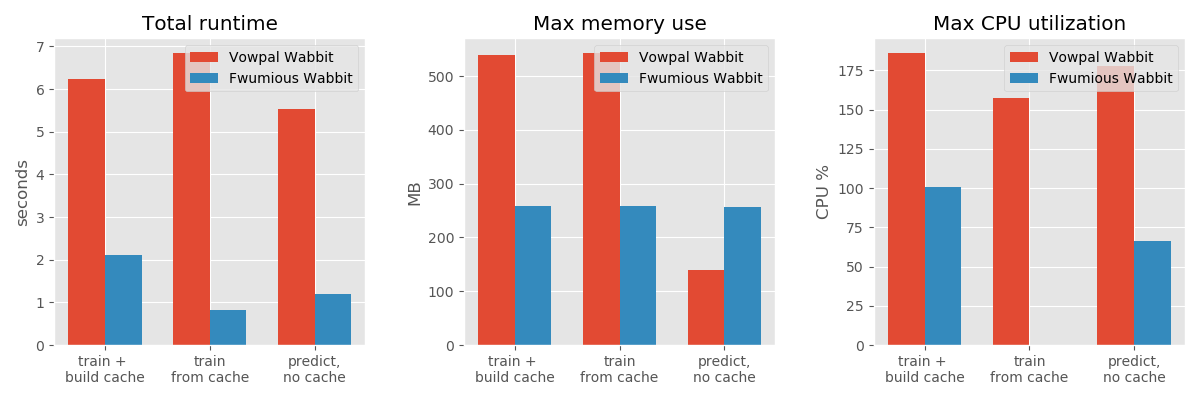
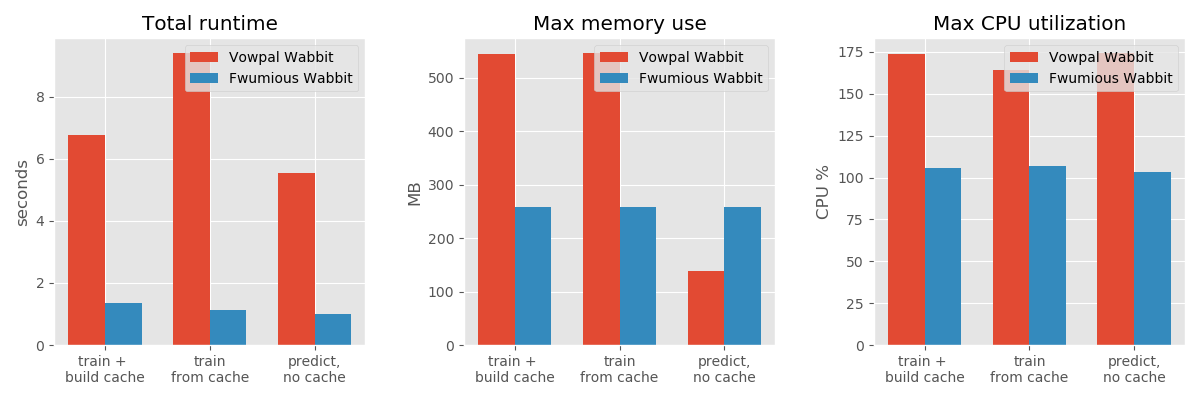
Some fixes, new benchmark

diff --git a/benchmark/benchmark.py b/benchmark/benchmark.py
@@ -46,25 +46,27 @@ def fw_clean_cache():
     rm_quietly("work_dir/easy.vw.fwcache")
 
 
-def print_system_info(file = sys.stdout):
-    print("### CPU Info", file=file)
-    print( "```", file=file)
+def get_system_info():
+    l = []
+    l.append("### CPU Info")
+    l.append("```")
     # number of cores
-    print( "Physical cores:", psutil.cpu_count(logical=False), file=file)
-    print( "Total cores:", psutil.cpu_count(logical=True), file=file)
+    l.append("Physical cores: %i" % psutil.cpu_count(logical=False))
+    l.append("Total cores: %i" % psutil.cpu_count(logical=True))
     # CPU frequencies
     cpufreq = psutil.cpu_freq()
-    print( f"Current Frequency: {cpufreq.current:.2f}Mhz", file=file)
-    print( "```", file=file)
+    l.append(f"Current Frequency: {cpufreq.current:.2f}Mhz")
+    l.append("```")
 
-    print( "### System Information", file=file)
+    l.append("### System Information")
     uname = platform.uname()
-    print( "```", file=file)
-    print( f"System: {uname.system}", file=file)
-    print( f"Version: {uname.version}", file=file)
-    print( f"Machine: {uname.machine}", file=file)
-    print( f"Processor: {uname.processor}", file=file)
-    print( "```", file=file)
+    l.append("```")
+    l.append(f"System: {uname.system}")
+    l.append(f"Version: {uname.version}")
+    l.append(f"Machine: {uname.machine}")
+    l.append(f"Processor: {uname.processor}")
+    l.append("```")
+    return "\n".join(l)
 
 
 def gzip_file(f):
@@ -193,12 +195,14 @@ if __name__ == "__main__":
     use_plots = sys.argv[3] == "True"
 
     action = sys.argv[2]
+    
+    
+    BENCHMARK_MD_FILEPATH = "work_dir/BENCHMARK.new.md"
 
-    with open("work_dir/README.md", "w") as readme:
-        readme.write("")  # clear file
-#        sys.stdout = readme
+    with open(BENCHMARK_MD_FILEPATH, "w") as readme:
         def rprint(*args, **kwargs):
             print(*args, file=readme, **kwargs)
+        rprint("") # Clear file
 
         params = " -l 0.1 -b 25 --adaptive --sgd --loss_function logistic --link logistic --power_t 0.0 --l2 0.0 --hash all "
         interactions = " --interactions AB --keep A --keep B --keep C --keep D --keep E --keep F --keep G --keep H --keep I --keep J --keep K --keep L"
@@ -219,7 +223,8 @@ if __name__ == "__main__":
         if action in ["generate", "all"]:
             eprint(f"Generating test data, training examples: {train_examples}, test examples: {test_examples}")
             generate.generate(Path("work_dir"), train_examples, test_examples, feature_variety)
-            gzip_file("work_dir/train.vw")
+            # Currently we don't benchmark over gzip files as it's just one more layer of complication
+            #gzip_file("work_dir/train.vw")
 
         times = 3
         actions = []
@@ -237,8 +242,8 @@ if __name__ == "__main__":
 
         if action in ["train", "predict", "train+predict", "all"]:
             rprint("""## Scenarios
-            1. train a new model from a gzipped dataset, generating a gzipped cache file for future runs, and an output model file - *this is a typical scenario in our AutoML system - we start by generating the cache file for the next runs.*
-            1. train a new model over the dataset in the gzipped cache, and generate an output model - *this is also a typical scenario - we usually run many concurrent model evaluations as part of the model search*
+            1. train a new model from a dataset and an output model file - *typical scenario for one-off training on the dataset*
+            1. train a new model from a cached dataset, and generate an output model - *this is also a typical scenario - we usually run many concurrent model evaluations as part of the model search*
             1. use a generated model to make predictions over a dataset read from a text file, and print them to an output predictions file - *this is to illustrate potential serving performance, we don't usually predict from file input as our offline flows always apply online learning. note that when running as daemon we use half as much memory since gradients are not loaded - only model weights.*
             """)
 
@@ -449,10 +454,10 @@ if __name__ == "__main__":
         ## Latest run setup
         """)
 
-        print_system_info(readme)
+        rprint(get_system_info())
 
-        if os.path.isfile("work_dir/README.md"):
-            shutil.copyfile("work_dir/README.md", "../BENCHMARK.md")
+    if os.path.isfile(BENCHMARK_MD_FILEPATH):
+        shutil.copyfile(BENCHMARK_MD_FILEPATH, "../BENCHMARK.md")
 
-        if os.path.isfile("work_dir/benchmark_results.png"):
-            shutil.copyfile("work_dir/benchmark_results.png", "../benchmark_results.png")
+    if os.path.isfile("work_dir/benchmark_results.png"):
+        shutil.copyfile("work_dir/benchmark_results.png", "../benchmark_results.png")

diff --git a/BENCHMARK.md b/BENCHMARK.md
@@ -1,0 +1,87 @@
+
+## Scenarios
+            1. train a new model from a dataset and an output model file - *typical scenario for one-off training on the dataset*
+            1. train a new model from a cached dataset, and generate an output model - *this is also a typical scenario - we usually run many concurrent model evaluations as part of the model search*
+            1. use a generated model to make predictions over a dataset read from a text file, and print them to an output predictions file - *this is to illustrate potential serving performance, we don't usually predict from file input as our offline flows always apply online learning. note that when running as daemon we use half as much memory since gradients are not loaded - only model weights.*
+            
+## Model
+        We train a logistic regression model, applying online learning one example at a time (no batches), 
+        using '--adaptive' flag for adaptive learning rates (AdaGrad variant).
+        ### Results
+        here are the results for {times} runs for each scenario, taking mean values:
+![benchmark results](benchmark_results.png)
+Scenario|Runtime (seconds)|Memory (MB)|CPU %
+----|----:|----:|----:
+vw train, no cache|6.76 | 545 | 173.67
+fw train, no cache|1.35 | 258 | 105.83
+vw train, using cache|9.41 | 547 | 164.17
+fw train, using cache|1.14 | 258 | 107.00
+vw predict, no cache|5.56 | 139 | 174.40
+fw predict, no cache|1.00 | 257 | 103.40
+
+        ### Model equivalence
+        loss values for the test set:
+```
+Vowpal Wabbit predictions loss: 0.7804
+Fwumious Wabbit predictions loss: 0.7804
+```
+
+
+for more details on what makes Fwumious Wabbit so fast, see [here](https://github.com/outbrain/fwumious_wabbit/blob/benchmark/SPEED.md)
+### Dataset details")
+            we generate a synthetic dataset with 1,000,000 train records ('train.vw'), and 1,000,000 test records ('easy.vw').
+            the task is 'Eat-Rate prediction' - each record describes the observed result of a single feeding experiment.
+            each record is made of a type of animal, a type of food (in Vowpal Wabbit jargon these are our namespaces A and B respectively), and a label indicating whether the animal ate the food.
+            the underlying model is simple - animals are either herbivores or carnivores,
+            and food is either plant based or meat based.
+            herbivores always eat plants (and only plants), and carnivores always eat meat (and only meat).
+            we name animals conveniently using the pattern 'diet-id', for example 'Herbivore-1234' and 'Carnivore-5678'
+            and the food similarly as 'food_type-id' - for example 'Plant-678' and 'Meat-234' so the expected label for a record is always obvious.
+            there are 1,000 animal types, and 1,000 food types.
+            
+see for example the first 5 lines from the train dataset (after some pretty-printing):
+                label|animal|food
+                ----:|------|----
+                
+-1 |A Herbivore-65 |B Meat-120 |C C8117 |D D7364 |E E7737 |F F6219 |G G3439 |H H1537 |I I7993 |J J464 |K K6386 |L L7090
+1 |A Carnivore-272 |B Meat-184 |C C3748 |D D9685 |E E1674 |F F5200 |G G501 |H H365 |I I416 |J J8870 |K K150 |L L6245
+1 |A Carnivore-135 |B Meat-227 |C C7174 |D D8123 |E E9058 |F F3818 |G G5663 |H H3782 |I I3584 |J J7530 |K K4747 |L L352
+-1 |A Herbivore-47 |B Meat-644 |C C4856 |D D1980 |E E5450 |F F8205 |G G6915 |H H8318 |I I3110 |J J4970 |K K4655 |L L9626
+-1 |A Carnivore-603 |B Plant-218 |C C565 |D D7868 |E E3977 |F F6623 |G G6788 |H H2834 |I I6014 |J J8991 |K K6139 |L L1416
+
+
+### Feature engineering
+            if we train using separate 'animal type' and 'food type' features, the model won't learn well, 
+            since knowing the animal identity alone isn't enough to predict if it will eat or not - and the same 
+            goes for knowing the food type alone.
+            so we apply an interaction between the animal type and food type fields.
+            
+## Prerequisites and running
+        you should have Vowpal Wabbit installed, as the benchmark invokes it via the 'vw' command.
+        additionally the rust compiler is required in order to build Fwumious Wabbit (the benchmark invokes '../target/release/fw') 
+        in order to build and run the benchmark use one of these bash scripts:
+        ```
+        ./run_with_plots.sh
+        ```
+        in order to run the benchmark and plot the results (requires matplotlib, last used with version 2.1.2)
+        
+or, if you just want the numbers with less dependencies run:
+        ```
+        ./run_without_plots.sh
+        ```
+
+        ## Latest run setup
+        
+### CPU Info
+```
+Physical cores: 4
+Total cores: 8
+Current Frequency: 2615.40Mhz
+```
+### System Information
+```
+System: Linux
+Version: #52-Ubuntu SMP Thu Sep 10 10:58:49 UTC 2020
+Machine: x86_64
+Processor: x86_64
+```
